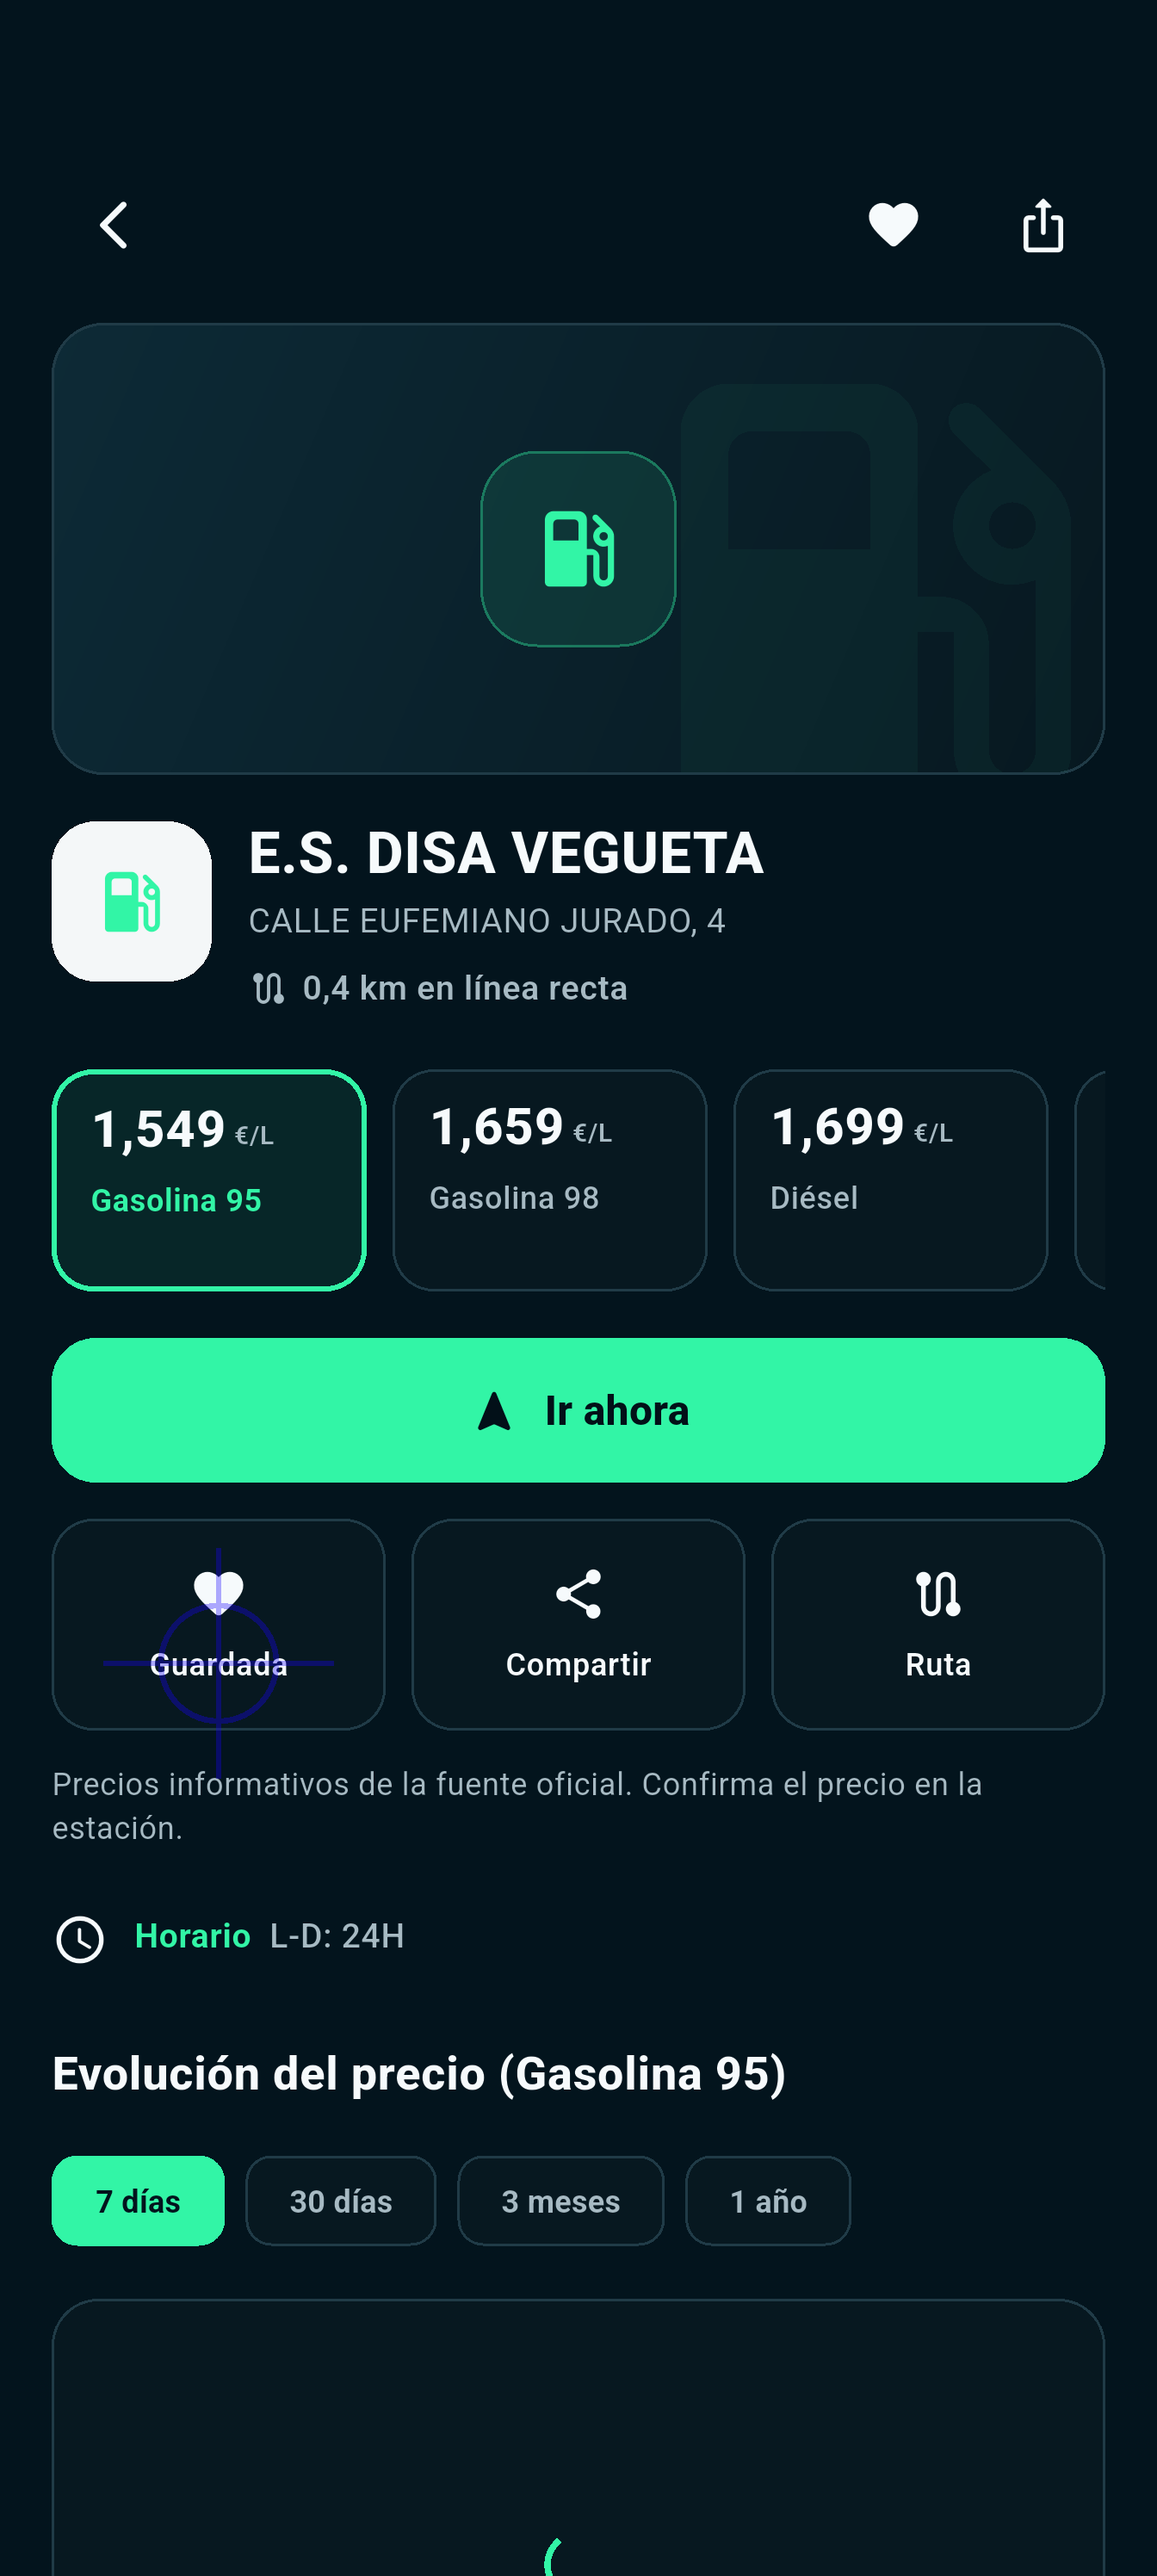
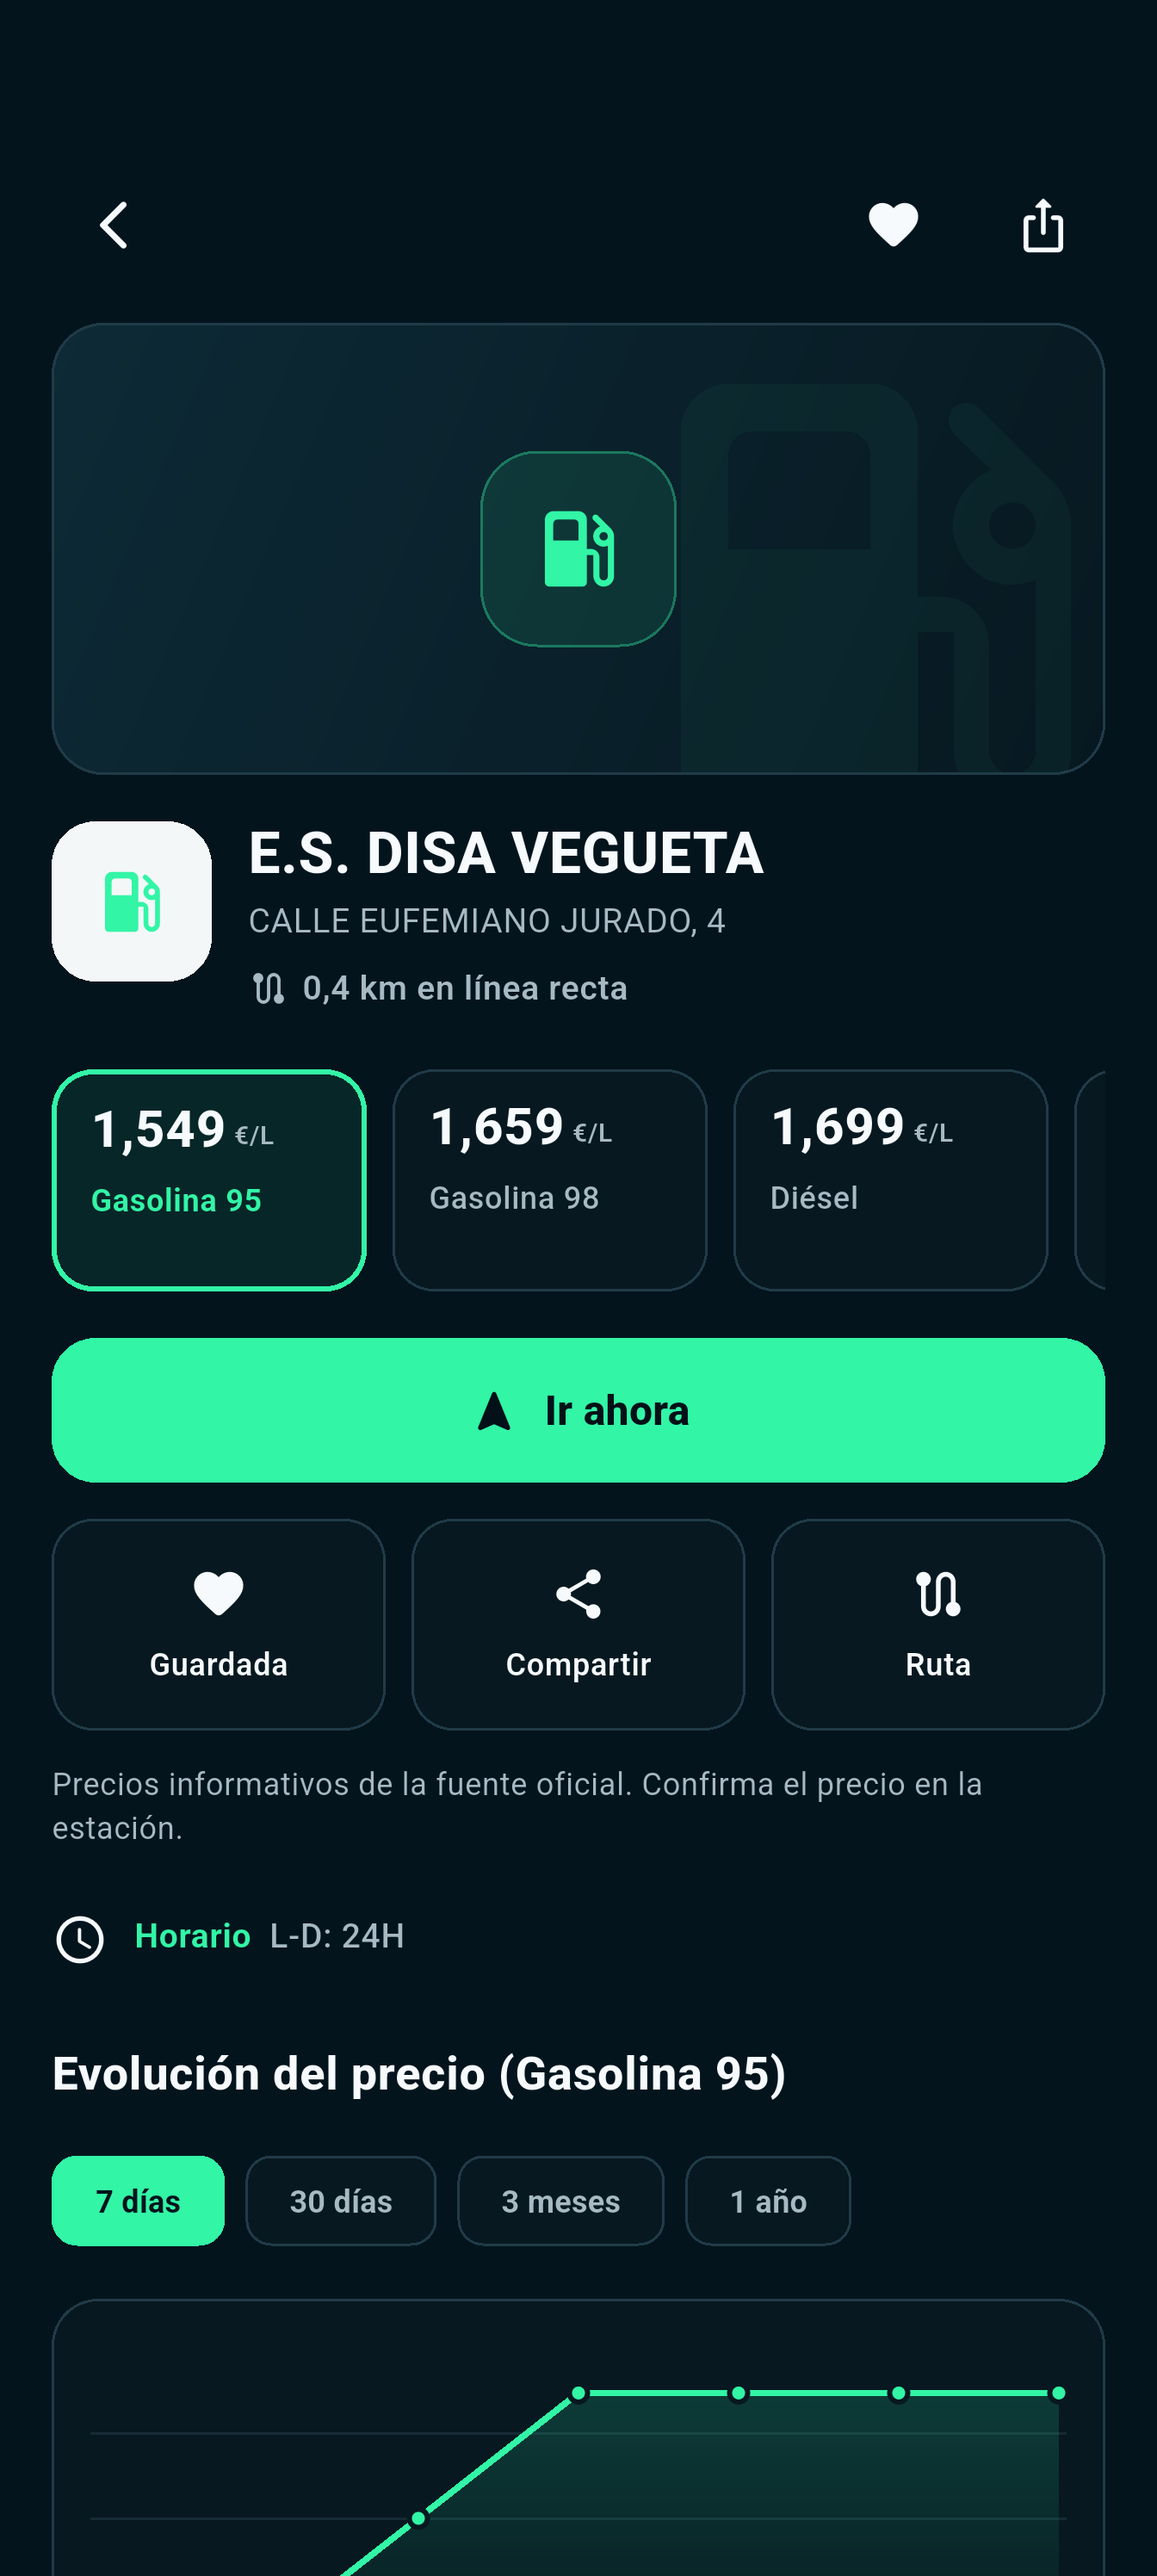
test: capture loaded map and document signed beta bundle

diff --git a/integration_test/beta_smoke_test.dart b/integration_test/beta_smoke_test.dart
@@ -57,6 +57,12 @@ void main() {
       await tester.tap(find.text('Mapa').last);
       await tester.pump(const Duration(seconds: 2));
       expect(find.text('50 km'), findsOneWidget);
+      for (var i = 0; i < 60; i++) {
+        if (find.byType(LinearProgressIndicator).evaluate().isEmpty) break;
+        await tester.pump(const Duration(milliseconds: 500));
+      }
+      expect(find.byType(LinearProgressIndicator), findsNothing);
+      await tester.pump(const Duration(seconds: 1));
       await binding.takeScreenshot('07-map');
       await tester.tap(find.text('Cerca').last);
       await tester.pump(const Duration(milliseconds: 500));

diff --git a/docs/ui-ux-improvements.md b/docs/ui-ux-improvements.md
@@ -24,3 +24,5 @@ La primera ejecución de GitHub Actions detectó una carpeta vacía de recursos 
 - Validar compartir y navegación externa en un teléfono físico.
 
 Segunda tanda: radio compartido y persistente, zona manual persistente sin guardar posición del dispositivo, hora de consulta y botón de actualización en mapa. Privacidad actualizada. Versión 1.0.0+3.
+
+Paquete AAB de esta tanda generado y firmado como 1.0.0+3 en la carpeta local dist, excluida de Git. Las instalaciones APK anteriores permanecen en 1.0.0+2.
